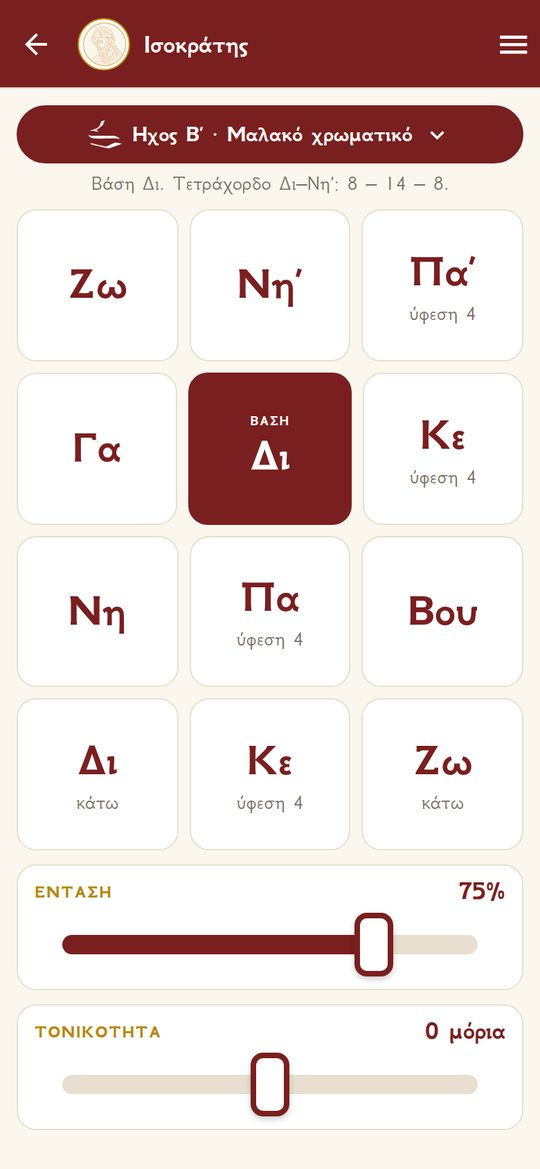
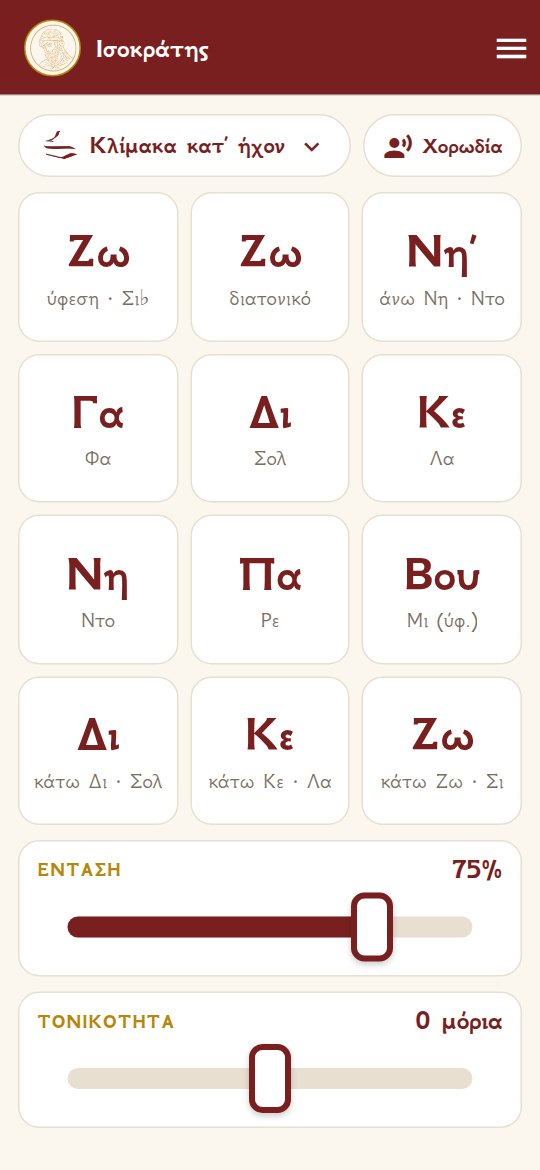
Ενημέρωση σελίδας: Νέα Μητροπόλεων, νηστείες, νέες λειτουργίες Ισοκράτη, πολιτική απορρήτου

diff --git a/index.html b/index.html
@@ -118,8 +118,8 @@
       <h1>Οκτώηχος</h1>
       <p class="tag"><span class="el">Θεωρία Βυζαντινής Μουσικής</span><span class="en">Byzantine Music Theory</span></p>
       <p class="lead">
-        <span class="el">Μια εφαρμογή για ψάλτες και για όσους αγαπούν την ψαλτική: θεωρία με τεστ γνώσεων, εορτολόγιο με βίους αγίων, τυπική διάταξη κάθε ημέρας και ισοκράτης με τις κλίμακες κάθε ήχου.</span>
-        <span class="en">An app for chanters and everyone who loves Byzantine chant: music theory with quizzes, a church calendar with lives of the saints, the daily Typikon, and an ison with the scale of every mode.</span>
+        <span class="el">Μια εφαρμογή για ψάλτες και για όσους αγαπούν την ψαλτική: θεωρία με τεστ γνώσεων, εορτολόγιο με βίους αγίων και νηστείες, τυπική διάταξη κάθε ημέρας, ισοκράτης με τις κλίμακες κάθε ήχου και τα νέα όλων των Μητροπόλεων της Ελλάδος.</span>
+        <span class="en">An app for chanters and everyone who loves Byzantine chant: music theory with quizzes, a church calendar with lives of the saints and fasting days, the daily Typikon, an ison with the scale of every mode, and news from every Metropolis of Greece.</span>
       </p>
       <div class="btns">
         <a class="btn" href="#download">⬇ <span class="el">Λήψη για Android</span><span class="en">Download for Android</span></a>
@@ -139,14 +139,16 @@
           <h3><span class="el">Οι άγιοι κάθε ημέρας και οι βίοι τους</span><span class="en">The saints of each day and their lives</span></h3>
           <ul class="el">
             <li>Ημερολόγιο με Δεσποτικές, Θεομητορικές και μεγάλες εορτές.</li>
+            <li>Νηστεία κάθε ημέρας με διακριτικά χρώματα: αλάδωτο, νηστεία, κατάλυση οίνου, ελαίου ή ιχθύος.</li>
             <li>Κινητές εορτές (Τριώδιο, Πάσχα, Πεντηκοστάριο) σωστές για κάθε χρονιά.</li>
-            <li>Σύντομος βίος για κάθε άγιο, με ένα πάτημα.</li>
+            <li>Πάνω από 1.100 μνήμες αγίων για όλο τον χρόνο, η καθεμία με τον σύντομο βίο της.</li>
             <li>Προαιρετική ειδοποίηση για τις ονομαστικές εορτές των επαφών σου — τα ονόματα δεν φεύγουν ποτέ από το κινητό.</li>
           </ul>
           <ul class="en">
             <li>Calendar with the Feasts of the Lord, of the Theotokos and the major feasts.</li>
+            <li>The fast of each day in discreet colours: no oil, fast, wine/oil or fish allowed.</li>
             <li>Movable feasts (Triodion, Pascha, Pentecostarion) correct for any year.</li>
-            <li>A short life of each saint, one tap away (in Greek).</li>
+            <li>Over 1,100 commemorations for the whole year, each with a short life of the saint (in Greek).</li>
             <li>Optional name-day reminders for your contacts — names never leave your phone.</li>
           </ul>
         </div>
@@ -158,14 +160,16 @@
           <div class="kicker"><span class="el">Ισοκράτης</span><span class="en">Ison</span></div>
           <h3><span class="el">Το ίσο, με τις κλίμακες κάθε ήχου</span><span class="en">The ison, with the scale of every mode</span></h3>
           <ul class="el">
-            <li>Φυσικός, χορωδιακός ήχος με κλειστό στόμα, σε συνεχή επανάληψη.</li>
+            <li>Βαθιές, ανθρώπινες ανδρικές φωνές με βαθυφώνους, σε συνεχή επανάληψη.</li>
             <li>Κλίμακα κατ’ ήχον: διατονικό, μαλακό και σκληρό χρωματικό, εναρμόνιο (72 μόρια).</li>
-            <li>Τονικότητα σε μόρια (−20 έως +20) για να ταιριάζει με τη φωνή του ψάλτη.</li>
+            <li>Τονικότητα σε μόρια (−20 έως +20) που αλλάζει ακαριαία, για να ταιριάζει με τη φωνή του ψάλτη.</li>
+            <li>«Δικός μου ήχος»: βάλε όποιο αρχείο ήχου θέλεις και ο Ισοκράτης το μεταφέρει σε κάθε φθόγγο.</li>
           </ul>
           <ul class="en">
-            <li>Natural, choral humming sound, looping seamlessly.</li>
+            <li>Deep, human male voices with basses an octave below, looping seamlessly.</li>
             <li>Scale by mode: diatonic, soft and hard chromatic, enharmonic (72 moria).</li>
-            <li>Pitch adjustment in moria (−20 to +20) to match the chanter’s voice.</li>
+            <li>Pitch in moria (−20 to +20) that changes instantly, to match the chanter’s voice.</li>
+            <li>“My own sound”: load any audio file and the Ison moves it to every note.</li>
           </ul>
         </div>
         <div class="phone"><img src="screen-iso.jpg" alt="Ισοκράτης" loading="lazy" /></div>
@@ -207,11 +211,33 @@
         <div class="phone"><img src="screen-theory.jpg" alt="Θεωρία" loading="lazy" /></div>
       </div>
 
+      <div class="feature">
+        <div>
+          <div class="kicker"><span class="el">Νέα Μητροπόλεων</span><span class="en">Metropolis News</span></div>
+          <h3><span class="el">Τα νέα της Μητροπόλεώς σου</span><span class="en">News from your Metropolis</span></h3>
+          <ul class="el">
+            <li>Όλες οι Μητροπόλεις της Ελλάδος, της Κρήτης και της Δωδεκανήσου — διάλεξε μία, πολλές ή όλες.</li>
+            <li>Τα νέα έρχονται αυτόματα από τις ιστοσελίδες τους, με φωτογραφία και περίληψη.</li>
+            <li>Αναζήτηση στα νέα με μια λέξη.</li>
+            <li>Ιστοσελίδα και social media κάθε Μητροπόλεως (Facebook, YouTube, Instagram) με ένα πάτημα.</li>
+          </ul>
+          <ul class="en">
+            <li>Every Metropolis of Greece, Crete and the Dodecanese — follow one, several or all.</li>
+            <li>News arrives automatically from their websites, with a photo and a summary (in Greek).</li>
+            <li>Search the news by a word.</li>
+            <li>Each Metropolis’s website and social media (Facebook, YouTube, Instagram), one tap away.</li>
+          </ul>
+        </div>
+        <div class="phone"><img src="screen-news.jpg" alt="Νέα Μητροπόλεων" loading="lazy" /></div>
+      </div>
+
       <div class="cards">
         <div class="card"><h4><span class="el">Ελληνικά & English</span><span class="en">Greek & English</span></h4><p><span class="el">Μενού και οδηγίες και στα αγγλικά.</span><span class="en">Menus and user guide also in English.</span></p></div>
         <div class="card"><h4><span class="el">Οδηγίες με παραδείγματα</span><span class="en">Guide with examples</span></h4><p><span class="el">Μικρά κινούμενα παραδείγματα για κάθε λειτουργία.</span><span class="en">Small animated examples for every feature.</span></p></div>
         <div class="card"><h4><span class="el">Αυτόματες ενημερώσεις</span><span class="en">Automatic updates</span></h4><p><span class="el">Νέο περιεχόμενο χωρίς να ξανακατεβάσεις την εφαρμογή.</span><span class="en">New content without reinstalling the app.</span></p></div>
-        <div class="card"><h4><span class="el">Σεβασμός στο απόρρητο</span><span class="en">Privacy first</span></h4><p><span class="el">Χωρίς διαφημίσεις και χωρίς παρακολούθηση.</span><span class="en">No ads and no tracking.</span></p></div>
+        <div class="card"><h4><span class="el">Όπως τη θέλεις</span><span class="en">Your way</span></h4><p><span class="el">Μέγεθος γραμμάτων και διακόπτες για να κρύψεις όποια ενότητα δεν χρειάζεσαι.</span><span class="en">Text size, and switches to hide any section you don’t need.</span></p></div>
+        <div class="card"><h4><span class="el">Ονομαστικές εορτές</span><span class="en">Name days</span></h4><p><span class="el">Ειδοποίηση για όσους γιορτάζουν από τις επαφές σου.</span><span class="en">A reminder for the name days of your contacts.</span></p></div>
+        <div class="card"><h4><span class="el">Σεβασμός στο απόρρητο</span><span class="en">Privacy first</span></h4><p><span class="el">Χωρίς διαφημίσεις, χωρίς παρακολούθηση. Διαγραφή λογαριασμού από την ίδια την εφαρμογή.</span><span class="en">No ads, no tracking. Delete your account from within the app.</span></p></div>
       </div>
     </section>
 

diff --git a/privacy.html b/privacy.html
@@ -35,7 +35,7 @@
   <main class="wrap">
 <div class="el">
 <h1>Πολιτική Απορρήτου & Όροι Χρήσης</h1>
-<p class="upd">Τελευταία ενημέρωση: 2 Οκτωβρίου 2026</p>
+<p class="upd">Τελευταία ενημέρωση: 5 Οκτωβρίου 2026</p>
 <p class="intro">Ο «Οκτώηχος» είναι εκπαιδευτική εφαρμογή για τη θεωρία της Βυζαντινής Μουσικής, με εορτολόγιο και ισοκράτη. Σεβόμαστε την ιδιωτικότητά σου και επεξεργαζόμαστε μόνο τα απολύτως απαραίτητα δεδομένα, σύμφωνα με τον Γενικό Κανονισμό Προστασίας Δεδομένων (ΕΕ) 2016/679 («GDPR») και τον ν. 4624/2019.</p>
 <section class="card">
 <h2>1. Υπεύθυνος επεξεργασίας</h2>
@@ -63,6 +63,9 @@
 <p>• Supabase Inc. (λογαριασμοί και βάση δεδομένων της εφαρμογής iOS/Android).</p>
 <p>• Google LLC — AppSheet και Google Sheets (έκδοση AppSheet της εφαρμογής· η σύνδεση γίνεται με τον λογαριασμό Google σου).</p>
 <p>• Expo / 650 Industries Inc. (διανομή και ενημερώσεις της εφαρμογής).</p>
+<p>• Google Play (Google Ireland Ltd) και App Store (Apple Distribution International Ltd) — πληρωμή της ετήσιας συνδρομής. Τα στοιχεία πληρωμής τα διαχειρίζεται αποκλειστικά το κατάστημα· η εφαρμογή λαμβάνει μόνο την επιβεβαίωση ότι η συνδρομή είναι ενεργή, την οποία καταγράφει στον λογαριασμό σου.</p>
+<p>• Το αρχείο ήχου που επιλέγεις για τον Ισοκράτη («Δικός μου ήχος») μένει μόνο στη συσκευή σου και δεν αποστέλλεται πουθενά.</p>
+<p>• Νέα Μητροπόλεων: τα νέα διαβάζονται από τις δημόσιες ιστοσελίδες των Μητροπόλεων μέσω του διακομιστή της εφαρμογής. Ποιες Μητροπόλεις παρακολουθείς αποθηκεύεται μόνο στη συσκευή σου· όταν ανοίγεις ένα νέο ή ένα social media, μεταφέρεσαι στην αντίστοιχη ιστοσελίδα, η οποία έχει τη δική της πολιτική απορρήτου.</p>
 <p>Οι πάροχοι αυτοί ενεργούν για λογαριασμό μας με σύμβαση επεξεργασίας δεδομένων. Όπου γίνεται διαβίβαση εκτός ΕΟΧ (π.χ. ΗΠΑ), αυτή βασίζεται στο Πλαίσιο Προστασίας Δεδομένων ΕΕ–ΗΠΑ ή στις Τυποποιημένες Συμβατικές Ρήτρες της Ευρωπαϊκής Επιτροπής.</p>
 <p>Δεν πουλάμε και δεν μοιραζόμαστε τα δεδομένα σου με κανέναν άλλο.</p>
 </section>
@@ -73,7 +76,8 @@
 <section class="card">
 <h2>6. Τα δικαιώματά σου</h2>
 <p>Έχεις δικαίωμα: πρόσβασης, διόρθωσης, διαγραφής («δικαίωμα στη λήθη»), περιορισμού της επεξεργασίας, φορητότητας, εναντίωσης, καθώς και ανάκλησης συγκατάθεσης όπου αυτή υπάρχει.</p>
-<p>Για να τα ασκήσεις ή για να διαγραφεί ο λογαριασμός σου, στείλε email στο [Email επικοινωνίας]. Απαντάμε εντός ενός μηνός.</p>
+<p>Μπορείς να διαγράψεις μόνος σου οριστικά τον λογαριασμό σου και όλα τα δεδομένα του από την εφαρμογή: Προφίλ → «Διαγραφή λογαριασμού».</p>
+<p>Για να ασκήσεις τα υπόλοιπα δικαιώματα ή για να ζητήσεις τη διαγραφή χωρίς την εφαρμογή, στείλε email στο [Email επικοινωνίας]. Απαντάμε εντός ενός μηνός.</p>
 <p>Έχεις επίσης δικαίωμα να υποβάλεις καταγγελία στην Αρχή Προστασίας Δεδομένων Προσωπικού Χαρακτήρα (Κηφισίας 1-3, 115 23 Αθήνα, www.dpa.gr).</p>
 </section>
 <section class="card">
@@ -97,7 +101,7 @@
 </div>
 <div class="en">
 <h1>Privacy Policy & Terms of Use</h1>
-<p class="upd">Last updated: 2 October 2026</p>
+<p class="upd">Last updated: 5 October 2026</p>
 <p class="intro">“Octoechos” is an educational app for the theory of Byzantine music, with a church calendar and an ison (drone). We respect your privacy and process only the data that is strictly necessary, in accordance with the EU General Data Protection Regulation 2016/679 (“GDPR”) and Greek Law 4624/2019.</p>
 <section class="card">
 <h2>1. Data controller</h2>
@@ -125,6 +129,9 @@
 <p>• Supabase Inc. (accounts and database of the iOS/Android app).</p>
 <p>• Google LLC — AppSheet and Google Sheets (AppSheet version of the app; you sign in with your Google account).</p>
 <p>• Expo / 650 Industries Inc. (distribution and updates of the app).</p>
+<p>• Google Play (Google Ireland Ltd) and the App Store (Apple Distribution International Ltd) — payment of the yearly subscription. Payment details are handled solely by the store; the app only receives confirmation that the subscription is active, which it records in your account.</p>
+<p>• The audio file you choose for the Ison (“My own sound”) stays on your device only and is never uploaded.</p>
+<p>• Metropolis News: news is read from the public websites of the Metropolises via the app’s server. Which Metropolises you follow is stored only on your device; when you open a news item or a social media link, you are taken to that website, which has its own privacy policy.</p>
 <p>These providers act on our behalf under a data processing agreement. Where data is transferred outside the EEA (e.g. to the USA), the transfer relies on the EU–US Data Privacy Framework or on the European Commission’s Standard Contractual Clauses.</p>
 <p>We do not sell or share your data with anyone else.</p>
 </section>
@@ -135,7 +142,8 @@
 <section class="card">
 <h2>6. Your rights</h2>
 <p>You have the right of access, rectification, erasure (“right to be forgotten”), restriction of processing, data portability and objection, as well as the right to withdraw consent where processing is based on consent.</p>
-<p>To exercise them, or to have your account deleted, send an email to [Email επικοινωνίας]. We reply within one month.</p>
+<p>You can permanently delete your account and all its data yourself, from the app: Profile → “Delete account”.</p>
+<p>To exercise your other rights, or to request deletion without the app, send an email to [Email επικοινωνίας]. We reply within one month.</p>
 <p>You also have the right to lodge a complaint with the Hellenic Data Protection Authority (1-3 Kifisias Ave., 115 23 Athens, www.dpa.gr).</p>
 </section>
 <section class="card">
